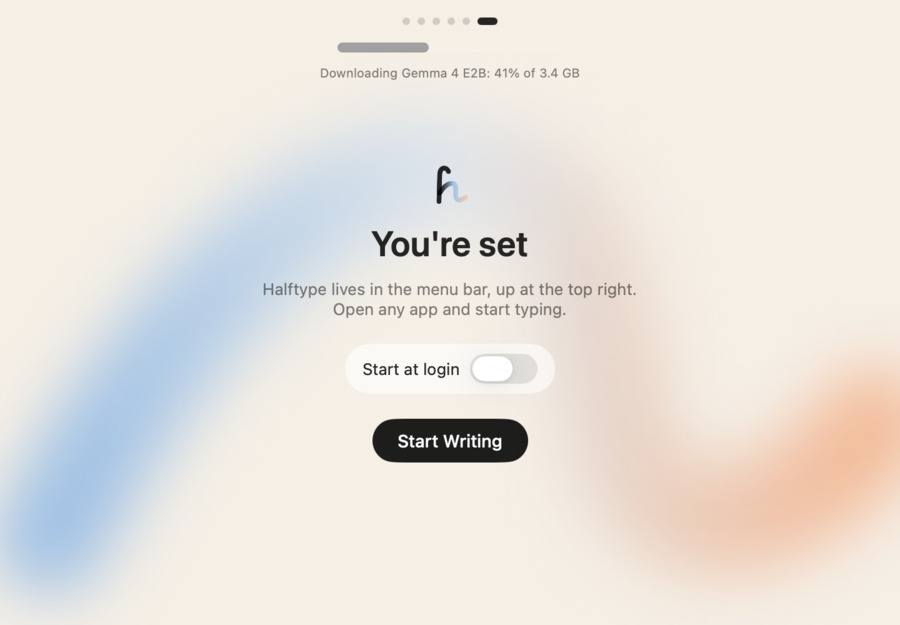
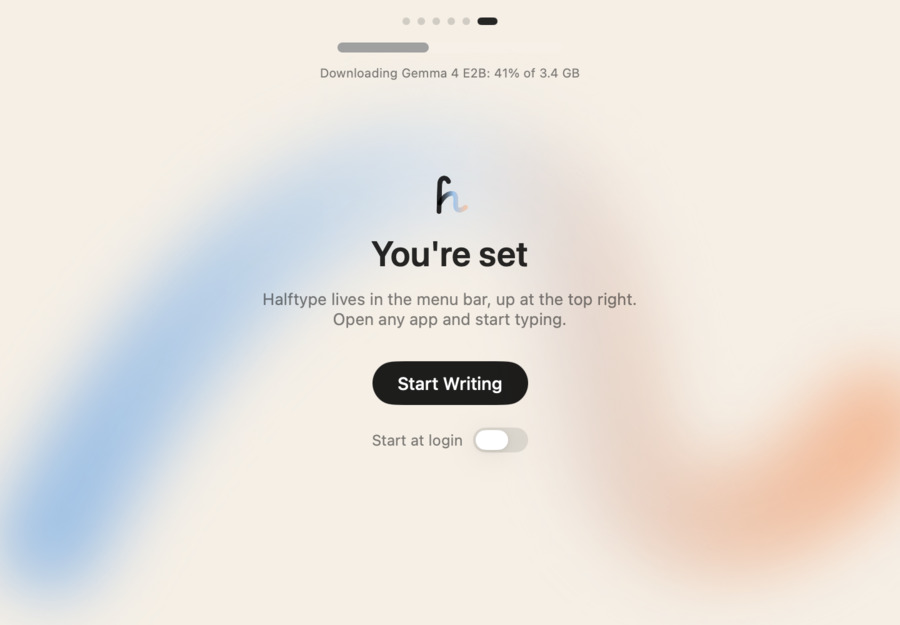
Onboarding's last page: Start Writing, then a bare Start at login switch under it, instead of a switch pane stacked tight on the button (John: "a bit cramped")

diff --git a/Sources/HalftypeApp/Onboarding.swift b/Sources/HalftypeApp/Onboarding.swift
@@ -124,10 +124,12 @@ struct Onboarding: View {
             Text("You're set").font(.system(size: 28, weight: .semibold))
             Text("Halftype lives in the menu bar, up at the top right.\nOpen any app and start typing.")
                 .font(.system(size: 13)).foregroundStyle(.secondary).multilineTextAlignment(.center)
-            Toggle("Start at login", isOn: $app.startAtLogin).toggleStyle(.switch).tint(.black)
-                .padding(.horizontal, 14).padding(.vertical, 8).pane().padding(.top, 8)
+            // One action, then the setting under it, quiet and with room: side by side or stacked in a pane read as two equal
+            // choices (docs/design/onboarding/done-page.html; John picked the switch below).
             Button("Start Writing") { app.finishOnboarding() }
-                .buttonStyle(Ink()).padding(.top, 8)
+                .buttonStyle(Ink()).padding(.top, 14)
+            Toggle("Start at login", isOn: $app.startAtLogin).toggleStyle(.switch).tint(.black).controlSize(.small)
+                .font(.system(size: 12)).foregroundStyle(.secondary).padding(.top, 6)
         }
     }
 }

diff --git a/docs/design/onboarding/README.md b/docs/design/onboarding/README.md
@@ -16,3 +16,5 @@ Built on branch `onboarding`: C's four steps (`Sources/HalftypeApp/Onboarding.sw
 ## Live check (2026-11-09)
 
 `built/live/`: the built app opened with `open -a build/Halftype.app --args -onboarded NO -modelPath ""`, with the models folder moved aside so Gemma downloads as on a first install, driven by `scripts/live-keys.swift`. Welcome, Try It with practice suggestions at 4-8% of the download, the glint mid-Tab, Shift-Tab, the last step, the home window after it, and the Settings card (`swift test --filter GuideLive`). Fixed on the way: a SwiftUI crash and black-on-black buttons from `.borderedProminent` tints, a field swapped in without focus, and a ghost left where a sliding step began. Not run: the grant itself and the drag, as this Mac already has the permission.
+
+Last page (2026-11-09): John found the switch pane over the button "a bit cramped"; options in `done-page.html`. Built: the button, then a bare Start at login switch under it.
